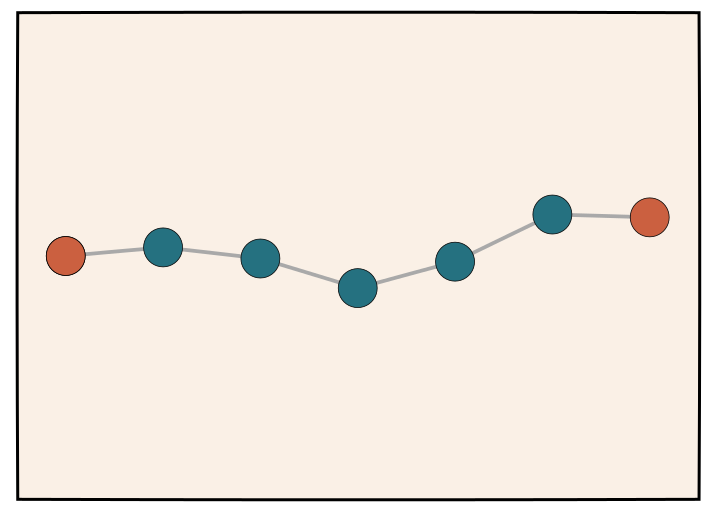
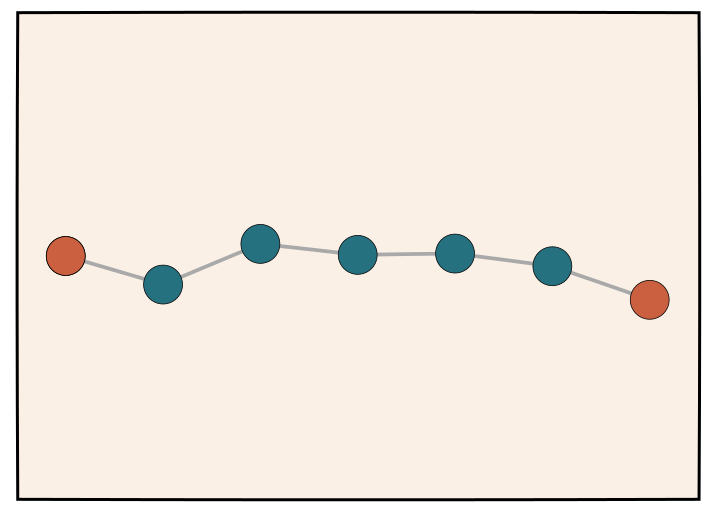
.

Changed region(s): [[0.1227, 0.375, 0.9512, 0.625], [0.8591, 0.5312, 0.9512, 0.625]]

diff --git a/talk/survey.tex b/talk/survey.tex
@@ -847,7 +847,7 @@
 	% The exploration in previous methods here has come from sampling or
 	% maintaining multiple candidates, rather than tracking UCB statistics.
 	\begin{center}
-		\foreach \i in {10,...,30}{
+		\foreach \i in {10,..., 20}{
 				\only<+>{\includegraphics[width=0.9\textwidth]{images/mcts0\i}}
 			}
 	\end{center}
@@ -934,22 +934,27 @@
 
 \begin{frame}{Suspect 4: Learning to Correct}
 	\begin{itemize}
-		\item 1) Sample $N$ Successful CoTs
-		\item 2) Edit to inject incorrect expansions before
-		      correct ones.
-		\item 3) Train on correcting trajectories
+		\item 1) Start with failed CoT
+		\item 2) Search to find successful corrections
+		\item 3) Train on full CoT
 	\end{itemize}
 \end{frame}
 
 
-\begin{frame}{Self-Correction}
-	\begin{itemize}
-		\item Argument: Training on $\cx, \cfz{z^*_1}, \cy$ is too easy.
-		\item Train instead on $\cx, \cfz{z'}, \cfz{z^*_1}, \cy$
-		      where $z'$ is wrong.
-		\item Aim: Model learns to improve.
-	\end{itemize}
-
+\begin{frame}{Framework: Self-Correction}
+	\begin{columns}
+		\begin{column}{0.5\linewidth}
+			\begin{itemize}
+				\item Aim: Find similar CoT pairs $\cfz{z'}, \cfz{z''}$
+				where $\cfz{z''}$ is better.
+				\item Train the model to improve upon $z'$
+			\end{itemize}
+		\end{column}
+		\begin{column}{0.5\linewidth}
+			\includegraphics{images/pairwise2}
+		\end{column}
+	\end{columns}
+	\cite{}
 \end{frame}
 
 
@@ -959,6 +964,25 @@
 		\item Distribution Shift: Actual mistakes may deviate from examples
 	\end{itemize}
 	\blfootnote{\cite{Gandhi2024-vs}}
+\end{frame}
+
+\begin{frame}{Learning from }
+	\begin{columns}
+		\begin{column}{0.5\linewidth}
+			\begin{itemize}
+				\item Start with $z'$
+				\item Learn to correct from verifier
+			\end{itemize}
+		\end{column}
+		\begin{column}{0.5\linewidth}
+			\includegraphic[width=\linewidth]{images/correct}
+		\end{column}
+	\end{columns}
+\end{frame}
+
+
+\begin{frame}{Empirical Results}
+	\includegraphics[width=\textwidth]{images/score_figure_1.png}
 \end{frame}
 
 
@@ -997,10 +1021,6 @@
 			\includegraphics[height=0.4\textheight]{images/search2}
 		\end{column}
 	\end{columns}
-\end{frame}
-
-\begin{frame}{Empirical Results}
-	\includegraphics[width=\textwidth]{images/score_figure_1.png}
 \end{frame}
 
 \begin{frame}{Is this o1?}

diff --git a/talk/gen.py b/talk/gen.py
@@ -36,6 +36,15 @@ def rwalk(t, v, T, d=5):
     return [(t + 1, v + random.random() / d), (t + 1, v - random.random() / d)]
 
 
+def correct_rwalk(t, v, T, d=1):
+    if t == T:
+        return []
+    if t > 2:
+        return [(t + 1, v + (random.random() - 0.5) / d) for _ in range(3)]
+
+    return [(t + 1, v + (random.random()) / (2 * d)) for _ in range(1)]
+
+
 def bwalk(t, v, T, d=5):
     if t == T:
         return []
@@ -443,8 +452,9 @@ T = 10
 root = Node([], 0, 0, 0, 0, None)
 list(mcts_step(root, T=T))
 random.seed(0)
-# for i in range(0, 5, 5):
-for i in range(0, 100, 5):
+
+for i in range(0, 5, 5):
+    # for i in range(0, 100, 5):
     for j, path in enumerate(mcts_step(root, T=T)):
         d = (
             # rectangle(T + 1, 7).line_width(0).align_l().translate(-0.5, 0)
@@ -471,8 +481,15 @@ draw(*make_chain(rwalk1), "images/ancestral.png", draw_final=False)
 
 
 draw(
-    *multi([make_chain(opt), make_chain(nonopt)]),
-    "images/stream.png",
+    *multi([make_chain(rwalk1), make_chain(rwalk1)]),
+    "images/pairwise.png",
+    draw_final=True,
+)
+
+
+draw(
+    *make_chain(correct_rwalk),
+    "images/correct.png",
     draw_final=True,
 )
 
